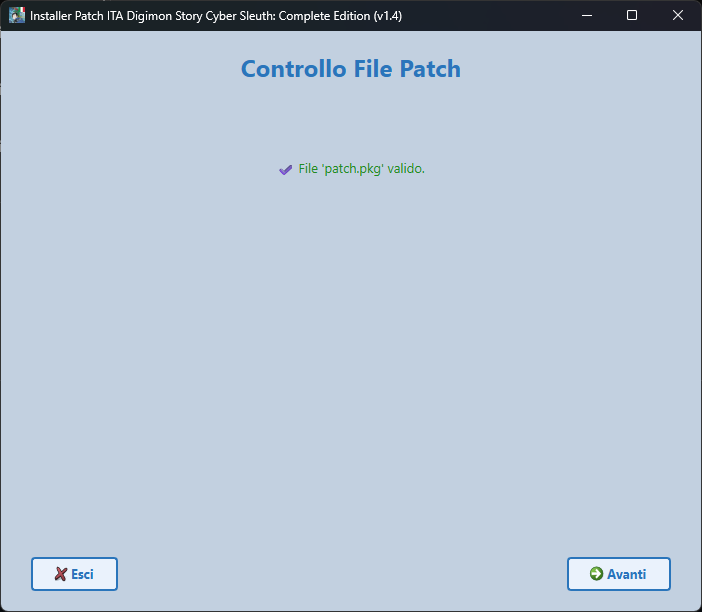
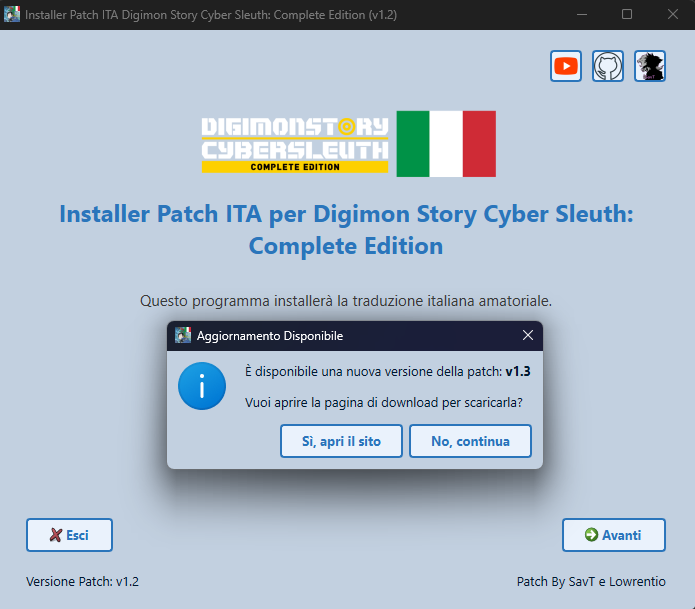
Aggiornato readme ed aggiunte nuove immagini installer

diff --git a/README.md b/README.md
@@ -37,17 +37,25 @@ La realizzazione della patch è stata resa possibile in larga misura grazie al c
 
 # Come installare la patch
 
-Per installare bisogna selezionare la sezione [Releases](https://github.com/zSavT/Digimon-Story-Cyber-Sleuth-Patch-ITA/releases) su GitHub e selezionare l'ultima versione della patch disponibile. Selezionate l'installer da scaricare in base al sistema operativo scelto ed avviate l'installer.
+Per installare la patch, bisogna aprire la sezione [Releases](https://github.com/zSavT/Digimon-Story-Cyber-Sleuth-Patch-ITA/releases) su GitHub e selezionare l'ultima versione della patch disponibile. Selezionate l'installer da scaricare in base al sistema operativo scelto ed avviate l'installer.
 
 ![](img/Installer1.png)
 
-L'installazione è guidata e semplice, ma in ogni caso basterà sempre cliccare su "_Avanti_". Attendere la verifica dell'integrità dei file della Patch e cliccare successivamente su "_Avanti_".
+L'installer controlla anche la presenza di una nuova versione della patch, in caso affermativo, è possibile scegliere se scaricare la nuova versione o meno.
 
 ![](img/Installer2.png)
+![](img/Installer3.png)
+
+L'installazione è guidata e semplice, ma in ogni caso basterà sempre cliccare su "_Avanti_". Attendere la verifica dell'integrità dei file della Patch e cliccare successivamente su "_Avanti_".
+
+
+![](img/Installer4.png)
 
 Successivamente bisogna accettare i termini d'uso e poi nella schermata successiva, selezionare la cartella dove è installato il gioco (Di default è impostato il percorso classico) e cliccare su "_Installa Patch_".
 
-![](img/Installer3.png)
+![](img/Installer5.png)
+
+Ora la patch del gioco è installata!
 
 # Come segnalare un errore nella traduzione
 
